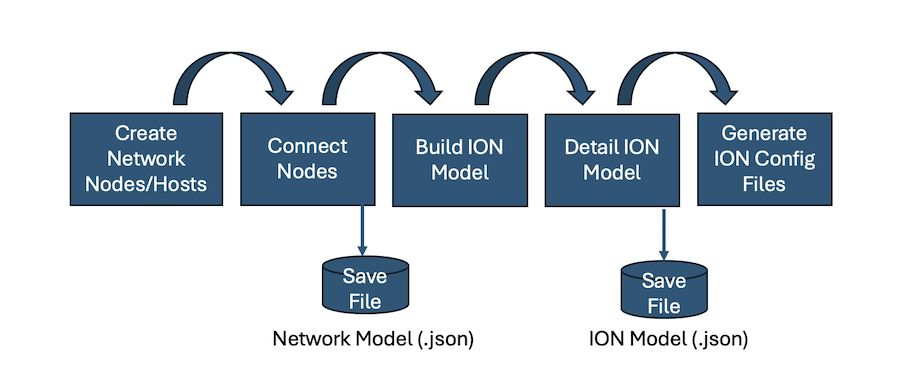
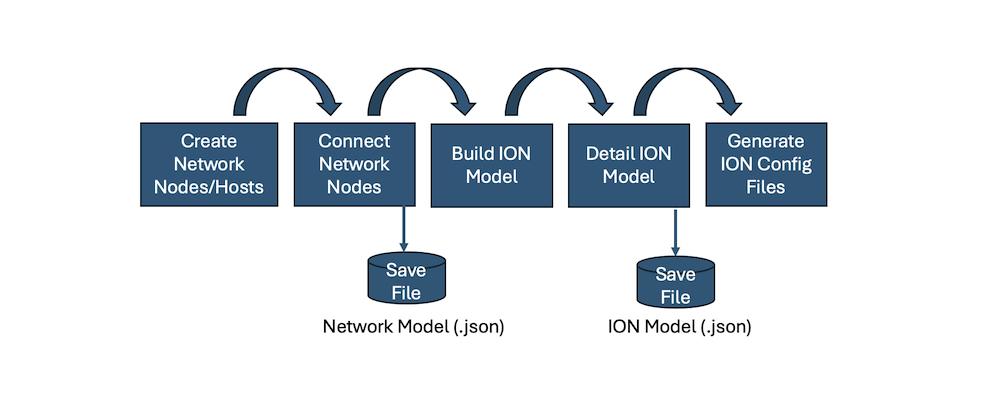
Edited for clarity, typos and updated screen shots

Changed region(s): [[0.0622, 0.1176, 0.9333, 0.8529], [0.28, 0.8824, 0.5289, 0.9412], [0.6533, 0.8824, 0.84, 0.9412]]

diff --git a/manual/user-manual.html b/manual/user-manual.html
@@ -33,33 +33,40 @@
 <li><a href="#clone-values">Clone Values</a></li>
 </ul>
 <h2 id="introduction">Introduction</h2>
-<p>The ION Configuration Editor is a tool for generating the necessary configuration text files to operate the nodes of a network of Interplanetary Overlay Network (ION) using the ION software. It allows a user to use an abstract representation of and entire DTN network to completely configure all the files needed to operate JPLs implementation of a Delay/Disruption Tolerant Network (DTN) using the ION software. The ION software conforms to all the DTN standards. These standards include <a href="https://datatracker.ietf.org/doc/html/rfc9171">Bundle Protocal Version 7</a>, <a href="https://datatracker.ietf.org/doc/html/rfc9172">Bundle Protocol Security</a>, <a href="https://datatracker.ietf.org/doc/html/rfc9172">Licklider Transmission Protocol</a> and others.  An ION node is an instance of an ION engine running within a larger DTN network, often with one ION node per host but optionally multiple ION nodes per host. This tool greatly simplifies and accelerates the task of configuring ION nodes for use within potentially very complex DTN networks. It accomplishes this by guiding and verifying the data entry of each command parameter and then producing reliably correct output syntax. Perhaps most importantly, the tool helps ensure consistent network-wide configurations by careful control of all cross-references within the model (e.g., node numbers, endpoints, duct names).  ION Configuration Editor further supports a network perspective with network survey reports of specific topics, such as nodes, commands, endpoints, etc. A user need not worry about, for example, IP address changes that permeate an entire network since the ION Configuration Editor keeps track of that data internally and automatically updates all the places within the network that need to be changed to the new IP address.</p>
+<p>The ION Configuration Editor is a tool for generating the necessary configuration text files to operate the nodes in an Interplanetary Overlay Network (ION) using the ION software. It allows a user to use an abstract representation of and entire DTN network to completely configure all the files needed to operate JPLs implementation of a Delay/Disruption Tolerant Network (DTN) using the ION software. The ION software conforms to all the DTN standards. These standards include <a href="https://datatracker.ietf.org/doc/html/rfc9171">Bundle Protocal Version 7</a>, <a href="https://datatracker.ietf.org/doc/html/rfc9172">Bundle Protocol Security</a>, <a href="https://datatracker.ietf.org/doc/html/rfc9172">Licklider Transmission Protocol</a> and others.  An ION node is an instance of an ION engine running within a larger DTN network, often with one ION node per host but optionally multiple ION nodes per host. This tool greatly simplifies and accelerates the task of configuring ION nodes for use within potentially very complex DTN networks. It accomplishes this by guiding and verifying the data entry of each command parameter and then producing reliably correct output syntax. Perhaps most importantly, the tool helps ensure consistent network-wide configurations by careful control of all cross-references within the model (e.g., node numbers, endpoints, duct names).  ION Configuration Editor further supports a network perspective with network survey reports of specific topics, such as nodes, commands, endpoints, etc. A user need not worry about, for example, IP address changes that permeate an entire network since the ION Configuration Editor keeps track of that data internally and automatically updates all the places within the network that need to be changed to the new IP address.</p>
 <p>This manual is current for ionconfig version 4.9.0 which supports ION version 4.1.4.</p>
 <h2 id="installation">Installation</h2>
-<p>The software comes bundled in a tar file, for example ionconfig-4.9.0.tar.  First untar the file into a directory of your choice. The ION Configuration Editor tool runs in two modes: as a standalone <strong>single page application</strong> within any modern web browser OR within a webserver (such as a a Python http.server) if it is desired to have the ION Configuration Editor interact with a <a href="#dtn-node-repo">DTN Node Repository</a> (DTNRR). Simply use the browser&#39;s <strong>Load File</strong> and load the file named <code>index.html</code> of the new directory.  The application will begin running in a new tab of the browser.</p>
-<p>A single page application runs independently as a desktop application on your local machine.  It is not communicating with a web server.  If you wish to clear and restart the application, just reload the page with the browser reload.  Be sure to save any current work prior to a reload, because it clears the application.</p>
+<p>The software comes bundled in a tar file, for example ionconfig-4.9.0.tar.  First untar the file into a directory of your choice. The ION Configuration Editor tool runs in two modes: as a standalone <strong>single page application</strong> within any modern web browser OR within a webserver (such as a a Python http.server) if it is desired to have the ION Configuration Editor interact with a <a href="#dtn-node-repo">DTN Node Repository</a> (DTNNR). The ION Configuration Editor has been tested on <b>Chrome</b> and <b>Firefox</b>.  Using other browsers should be fine but your mileage may vary. 
+<p><b>Standalone Mode</b></p>  
+Double click the <code>index.html</code> file in the installation directory or use the browser&#39;s <strong>Load File</strong> and load it.  The application will begin running in a new tab of the browser.</p>
+<p>The ION Configuration Editor runs in this mode as a single page application running independently as a desktop application on your local machine.  It cannot communicate outside of your local machine.  If you wish to clear and restart the application, just reload the page with the browser reload button.  Be sure to save any current work prior to a reload, because using the reload button completely clears the application.</p>
+<p><b>Webserver Mode (must be used if interfacing with a DTNNR)</b></p>
+<p>There are many choices when running the ION Configuration Editor as a webserver. The simplist is to use a Python 3 installation and run the code by navigating to the installation directory where the <code>index.heml</code> file exists and issuing the following command:</p>
+<p><pre>python3 -m http.server</pre></p>
+<p>This will start a webserver that can be accessed from your browser by using the URL <pre>http://localhost:8000</pre>. If you desire to use a different port, the Python http server can be started by passing the desired port number on the commmand line. For example,</p>
+<p><pre>python3 -m http.server 3030</pre> will start the server on port 3030 and the URL to use in your browser is <pre>http://localhost:3030</pre></p>
 <h2 id="dtn-node-repo">Interfacing with a DTN Node Repository</h2>
 <p><strong>NEW IN THIS RELEASE</strong></p>
-<p>Starting with version 4.9.0 of the ION Configuration Editor, users have the ability to take advantage of a DTN Node Repository (DTNRR) to configuration manage and import nodes into the tool for user in a network. The DTN Node Repository is an open-source implementation of a database to store information about nodes and hosts. Simply point the Editor at the URL where an instance of the DTNRR is running, and the editor will automatically download and display the nodes that can then be selected and imported into the editor to generate the needed ION configuration files. Use of the DTNRR is completely optional, the editor can be run offline and populated manually with the data needed to set up and generate ION configuration files just as it has always done in the past. The DTNRR is available for download <a href="https://github.com/nasa-jpl/dtnnr">here.</a> A complete description of the DTNRR schema and API is available there.</p>
+<p>Starting with version 4.9.0 of the ION Configuration Editor, users have the ability to take advantage of a DTN Node Repository (DTNNR) to configuration manage and import nodes into the tool for user in a network. The DTN Node Repository is an open-source implementation of a database to store information about nodes and hosts. Simply point the Editor at the URL where an instance of the DTNNR is running, and the editor will automatically download and display the nodes that can then be selected and imported into the editor to generate the needed ION configuration files. Use of the DTNNR is completely optional, the editor can be run offline and populated manually with the data needed to set up and generate ION configuration files just as it has always done in the past. The DTNNR is available for download <a href="https://github.com/nasa-jpl/dtnnr">here.</a> A complete description of the DTNNR schema and API is available there.</p>
 <h2 id="data-flow-diagram">Data Flow Diagram</h2>
 <p>The diagram below shows the general flow of the inputs and outputs of the ION Configuration Editor tool.  Ion Configuration Editor is a form-oriented editor for building a model of the ION node network and the associated commands that characterize each node.  The user performs all editing actions interactively.  The <strong>Ion Model File</strong> is the means of saving the model work between editing sessions, a JSON-format file that the user can inspect and interpret.  The <strong>Network Model File</strong> is an abstract representation of an ION Model that is simpler to work with. It makes assumptions about what commands are needed when an ION Model is built from it. Most users will want to start from a Network Model to generate all the input that describes the topology of the network which the editor can use to generate an initial skeleton version of the ION model.  This skeleton can then be edited and manipulated within the tool to get the fine details of an ION network nailed down.  Once the ION model is developed sufficiently, generation of ION-ready <strong>Configuration Text Files</strong>, including start files for each node can be generated with the click of a single button.  The Configuration Text Files are strictly output results, and do not serve as input to the tool.  A hidden input to the tool is the <strong>Command Dictionary</strong> that defines all the rules for each unique ION command.  The editor comes packaged with a command dictionary that provides the information necessary to make generating ION configuration files easy.</p>
 
 <h4 id="ionconfig-data-flow-diagram">ION Configuration Editor Data Flow Diagram</h4>
 <p><img src="IonConfig-Diagram.png" alt="alt text" title="ION Configuration Editor DFD"></p>
 <p>There are, at the highest level, two distinct workflow patterns for generating a set of ION configuration files. </p>
-<h2>Using the <a href="#dtn-node-repo">DTNRR</a></h2>
-<p><img src="DTNRR-Workflow.png" alt="alt text" title="DTNRR Workflow"></p>
+<h2>Using the <a href="#dtn-node-repo">DTNNR</a></h2>
+<p><img src="DTNNR-Workflow.png" alt="alt text" title="DTNNR Workflow"></p>
 <h2>Manual Input</h2>
 <p><img src="Manual-Workflow.png" alt="alt text" title="Manual Workflow"></p>
 <p>At each step, there may be some iteration needed. At anytime the Network Model and ION Model can be saved out to disk and loaded at a later time to continue work.</p>
 <h2 id="editor-structure">Editor Structure</h2>
-<p>The editor has three tabs that represent the workflows described above. A user generally works from left to right across the set of tabls starting with the Node DB tab if a DTNRR is connected or the Net Model tab, if it is not being used. The Net Model and ION Model tabs are structured as a direct hierarchy, paralleling the implicit organization of ION configuration files with the Net Model being the more abstract representation.  On the ION Model tab, the nested hierarchy is color coded to make it easier for a user to see in which part of the hierarchy they are working.</p>
+<p>The editor has three tabs that represent the workflows described above. A user generally works from left to right across the set of tabs starting with the Node DB tab if a DTNNR is connected or the Net Model tab, if it is not being used. The Net Model and ION Model tabs are structured as a direct hierarchy, paralleling the implicit organization of ION configuration files with the Net Model being the more abstract representation.  On the ION Model tab, the nested hierarchy is color coded to make it easier for a user to see in which part of the hierarchy they are working.</p>
 <h2>The Node DB tab</h2>
 <p><img src="Editor-Structure.png" alt="alt text" title="Editor Structure"></p>
-<p>If the DTNRR is being used, the Node DB tab displays all the nodes that are selectable for import into a Network Model. Select the nodes to import by clicking the checkbox in the <b>Select</b> column. At the bottom of the tab type in the name of the Net Model you want to create and press Import. The tool will display a dialog box if import was successful and prompt the user whether to go directly to that tab.</p>
+<p>If the DTNNR is being used, the Node DB tab displays all the nodes that are selectable for import into a Network Model. Select the nodes to import by clicking the checkbox in the <b>Select</b> column. At the bottom of the tab type in the name of the Net Model you want to create and press Import. The tool will display a dialog box if import was successful and prompt the user whether to go directly to that tab.</p>
 <h2>The Net Model tab</h2>
 <p><img src="Net-Model-Tab.png" alt="alt text" title="Net Model Tab"></p>
-<p>The Net Model is an abstract representation of a complete ION Network. It is used to define the nodes and hosts that make up the network along with the connections between them that define the network toplogy. These connections are called "Net Hops" in the context of the Network Model. If nodes were imported from a DTNRR there will be no Net Hops defined initially. Net Hops are a necessary part of a Network Model. Before an ION Model can be built from a Net Model, at least one Net Hop must be present. Once at least one Net Hop is defined, click "Build ION Model" to generate the ION Model. If it was successful, a dialog will come up indicating success with the option to go directly to the ION Model tab.</p>
+<p>The Net Model is an abstract representation of a complete ION Network. It is used to define the nodes and hosts that make up the network along with the connections between them that define the network toplogy. These connections are called "Net Hops" in the context of the Network Model. If nodes were imported from a DTNNR there will be no Net Hops defined initially. Net Hops are a necessary part of a Network Model. Before an ION Model can be built from a Net Model, at least one Net Hop must be present. Once at least one Net Hop is defined, click "Build ION Model" to generate the ION Model. If it was successful, a dialog will come up indicating success with the option to go directly to the ION Model tab.</p>
 <h2>The ION Model tab</h2> 
 <p><img src="Ion-Model-Tab.png" alt="alt text" title="Net Model Tab"></p> 
 <p>The ION Model is laid out in a hierarchical way with the <strong>Model Title</strong> followed by <strong>ION Host Machines</strong> defined for each node. Below that are its <strong>Ion Nodes</strong>, each which has various <strong>Config Files</strong> that in turn contain  <strong>Commands</strong>.  Building and editing commands is the primary utility of the ION Configuration Editor tool.  Given the sheer number of configuration file types and command types, the hierarchy can grow very large for even a relatively small network.  The tool manages this problem by allowing the user to expand and contract sections readily with the click of a button.  Most users will not create an ION Model manually, but it is possible by utilizing the editor in a top-down fashion: create a new ion model, create a node, add a configuration file and finally construct commands. This process is then repeated until the entire ION based DTN network is specidfied.</p>
